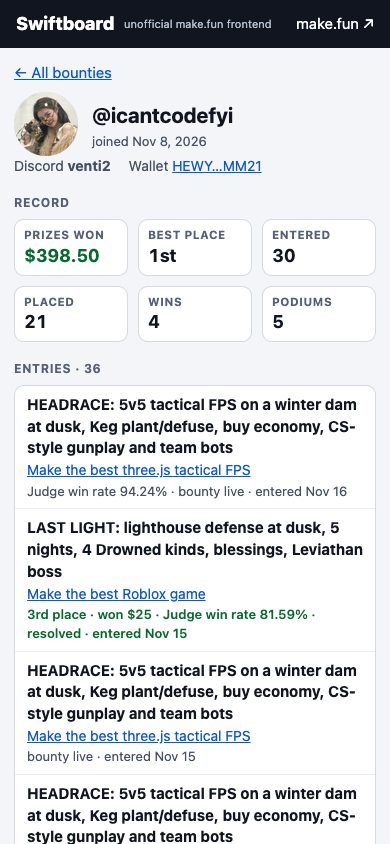
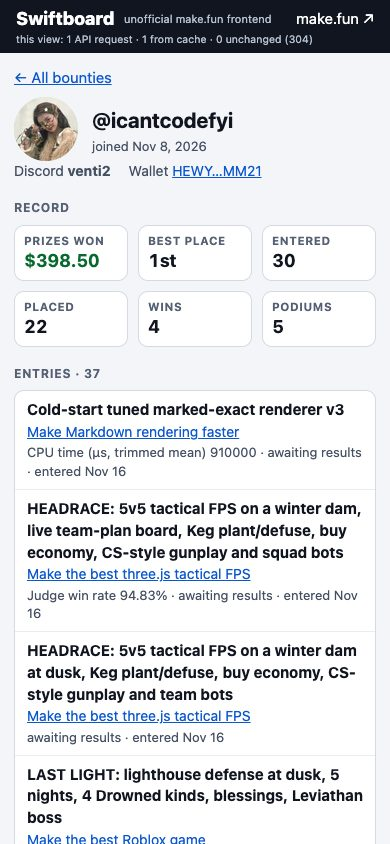
Top 5 on the bounty page, per-view cache counter, closing-soon marker at 6 hours
The bounty Overview shows the current top five from the leaderboard tab's own
cached request (one shared answer, aborted and revalidated like the rest).
The header counter now reads for the view on screen and starts again on each
change of address. The closing-soon marker applies under 6 hours.
Screenshots retaken on live data.

diff --git a/app/views.js b/app/views.js
@@ -238,11 +238,11 @@ function patchRow(el, b) {
   }
   const [title, pot, meta, caption] = el.children;
   const [left, entries, fee] = meta.children;
-  // Closing soon: under 24 hours left. Marked by a boxed "!" as well as by colour.
+  // Closing soon: under 6 hours left. Marked by a boxed "!" as well as by colour.
   const soon = closesSoon(b) ? 'soon' : '';
   if (left.className !== soon) {
     left.className = soon;
-    left.title = soon ? 'Closes within 24 hours' : '';
+    left.title = soon ? 'Closes within 6 hours' : '';
   }
   setText(title, b.title);
   setText(pot, usd(b.pot));
@@ -269,6 +269,7 @@ const STAT = (key) => `<div class="stat ${key}"><small data-f=${key}Label></smal
 const BOUNTY = `<div data-f=head></div>
 <p class=lede data-f=summary></p>
 <div class=stats>${['pot', 'fee', 'left', 'entries'].map(STAT).join('')}</div>
+<h2 class=toph data-f=topHead></h2><div data-f=top></div>
 <div class=cols><section><h2>Rewards</h2><table data-f=rewards></table></section><section><h2>Dates and status</h2><dl data-f=dates></dl></section></div>
 <h2>Description</h2><div class=md data-f=about></div>
 <details data-f=rulesBox><summary>Rules</summary><div class=md data-f=rules></div></details>`;
@@ -290,9 +291,11 @@ export function bountyView(slug = order[0] && order[0].slug) {
     root._f.rulesBox.open = false;
     $('view').scrollTop = 0;
     paintBounty(listing(slug) || { slug, title: slug, rewards: [], entries: 0 });
+    paintTopFive(slug);
   }
   if (selected !== slug) boardView(slug);
-  return getBounty(slug, (b) => root._slug === slug && paintBounty(b));
+  // Two answers make the page: the bounty's own, and its leaderboard for the Top 5 (the leaderboard tab's request).
+  return Promise.all([getBounty(slug, (b) => root._slug === slug && paintBounty(b)), topFive(slug)]);
 }
 
 function paintBounty(b) {
@@ -393,7 +396,11 @@ details{margin:14px 0 30px}summary{padding:8px 2px;font-weight:650;cursor:pointe
 .soon{padding:0 6px 0 2px;border:1px solid #c98a1b;border-radius:99px;background:#fdebc5;color:#5f3900}.meta b.soon{color:#5f3900}
 .soon:before{content:"!";display:inline-block;width:13px;margin-right:4px;border-radius:50%;background:#774800;color:#fff;font-size:10.5px;font-weight:800;line-height:13px;text-align:center;vertical-align:1px}
 .none{margin:14px 6px;color:#465064}
-@media(max-width:820px){#net{display:none}.back{display:inline-block}.stats{grid-template-columns:1fr 1fr}.cols{grid-template-columns:minmax(0,1fr)}h1{font-size:21px}.stat b{font-size:20px}th,td{padding:5px 8px}}`,
+.toph a{float:right;font-size:13px;font-weight:600;letter-spacing:0;text-transform:none}
+.top5{display:grid;grid-template-columns:repeat(5,minmax(0,1fr));gap:10px;margin:0;padding:0;list-style:none}.top5+p{min-height:63px;margin:0;color:#465064}
+.top5 li{display:grid;grid-template-columns:auto minmax(0,1fr);gap:0 7px;align-items:baseline;padding:7px 12px;background:#fff;border:1px solid #d5dae2;border-radius:10px}
+.top5 i{font-style:normal;font-size:13px;font-weight:700;color:#566074}.top5 a{font-weight:650;color:#10151f;text-decoration:none;white-space:nowrap;overflow:hidden;text-overflow:ellipsis}.top5 a:hover{text-decoration:underline}.top5 b{grid-column:2;font-size:17px}
+@media(max-width:820px){body{grid-template-rows:auto minmax(0,1fr)}header{flex-wrap:wrap;row-gap:0;padding-block:6px}#net{flex-basis:100%;overflow:hidden;text-overflow:ellipsis;font-size:10.5px}.top5{grid-template-columns:minmax(0,1fr);gap:4px}.top5 li{grid-template-columns:30px minmax(0,1fr) auto;padding:5px 12px}.top5 b{grid-column:auto}.toph a{font-size:12px}.back{display:inline-block}.stats{grid-template-columns:1fr 1fr}.cols{grid-template-columns:minmax(0,1fr)}h1{font-size:21px}.stat b{font-size:20px}th,td{padding:5px 8px}}`,
   }),
 );
 
@@ -401,7 +408,7 @@ details{margin:14px 0 30px}summary{padding:8px 2px;font-weight:650;cursor:pointe
 
 let findText = '';
 let category = '';
-const SOON_MS = 24 * 3600 * 1000;
+const SOON_MS = 6 * 3600 * 1000;
 
 /** The board's frame, made once: sort chips, filter box, category buttons, summary line, column headings, list. */
 const BOARD =
@@ -409,7 +416,7 @@ const BOARD =
   '<input type=search placeholder="Filter bounties by title or category" aria-label="Filter bounties by title or category">' +
   '<div class=cats role=group aria-label="Filter by category"></div>' +
   '<p class=tally><b></b> open · <b></b> in pots · <b></b> entries · <span title="The nearest deadline among the bounties shown">next ends in <b data-next></b></span></p>' +
-  '<div class=heads><span>Bounty · time left · entries · fee</span><span class=soon>under 24h</span><span>Pot</span></div></div>' +
+  '<div class=heads><span>Bounty · time left · entries · fee</span><span class=soon>under 6h</span><span>Pot</span></div></div>' +
   '<div></div>' +
   '<p class=none hidden>No bounty matches this filter. <button data-clear>Show all</button></p>';
 
@@ -444,4 +451,32 @@ function makeCategory(name) {
 function patchCategory(el, name) {
   const pressed = String(name === category);
   if (el.getAttribute('aria-pressed') !== pressed) el.setAttribute('aria-pressed', pressed);
+}
+
+// ---------------------------------------------------------------- a bounty's Top 5
+
+import { getLeaderboard } from './cached-api.js';
+
+/**
+ * The bounty's current top five, read through cachedGet from the very request its leaderboard tab makes, so the
+ * two share one cached answer: opening the tab afterwards costs no request, and coming back costs none either.
+ * It is aborted with the view; a bounty with no leaderboard to read shows the plain line, not an error.
+ */
+function topFive(slug) {
+  const mine = (board) => $('bounty')._slug === slug && paintTopFive(slug, board || { rows: [] });
+  return getLeaderboard(slug, '', mine).catch((err) => err.name === 'AbortError' || mine());
+}
+
+/** Rank, handle and the leaderboard's own score text for the first five ranked rows; patched only when changed. */
+function paintTopFive(slug, board) {
+  const f = $('bounty')._f;
+  const at = `#/bounty/${encodeURIComponent(slug)}/leaderboard`;
+  const ranked = board ? board.rows.filter((r) => r[0] != null) : [];
+  const cells = ranked.slice(0, 5).map(
+    ([rank, handle, , score, , , house]) =>
+      `<li><i>${ordinal(rank)}</i><a href="#/u/${encodeURIComponent(handle)}" title="@${esc(handle)}">@${esc(handle)}${house ? ' · house' : ''}</a><b class=num>${esc(score)}</b></li>`,
+  );
+  const all = ranked.length ? `All ${plural(ranked.length, 'ranked entry', 'ranked entries')}` : 'Full leaderboard';
+  patchHtml(f.topHead, `Top 5 now${ranked.length ? ' · ' + esc(board.column) : ''} <a href="${at}">${all} →</a>`);
+  patchHtml(f.top, cells.length ? `<ol class=top5>${cells.join('')}</ol>` : `<ol class=top5></ol><p>${board ? 'No ranked entries yet.' : 'Reading the leaderboard…'}</p>`);
 }

diff --git a/app/cached-api.js b/app/cached-api.js
@@ -13,6 +13,7 @@ export async function cachedGet(path, patch, slim, signal = stale.signal) {
   if (hit && sameMinute(hit.at)) {
     // Answered from the cache with no request: counted, and shown in the header beside the request count.
     requests.cached += 1;
+    requests.view.cached += 1;
     return hit.data;
   }
   try {
@@ -37,11 +38,13 @@ function revalidateEtag(path, hit, slim, signal) {
   const job = fetch(API + path, { signal: signal || undefined, cache: 'no-cache' })
     .then(async (res) => {
       requests.count += 1;
+      requests.view.count += 1;
       if (!res.ok) throw new Error(res.status === 404 ? 'make.fun has nothing at this address' : `make.fun answered ${res.status}`);
       const etag = res.headers.get('ETag');
       if (hit && etag && etag === hit.etag) {
         // Revalidated and unchanged: counted, and shown in the header.
         requests.unchanged += 1;
+        requests.view.unchanged += 1;
         return remember(path, hit, true);
       }
       return remember(path, { etag, data: slim(await res.json()) });
@@ -55,6 +58,8 @@ function revalidateEtag(path, hit, slim, signal) {
 export function abortStale() {
   stale.abort();
   stale = new AbortController();
+  // A new address is a new view: its counts start again. A revalidation of the same address keeps adding to them.
+  if (requests.view.of !== location.hash) requests.view = { of: location.hash, count: 0, cached: 0, unchanged: 0 };
 }
 
 export const getBoard = (patch) => cachedGet('/competitions?status=open&activity=times', patch, slimBoard, null);
@@ -177,3 +182,7 @@ function slimProfile(p) {
 // cache with no request, and revalidations that came back 304 with nothing new.
 requests.cached = 0;
 requests.unchanged = 0;
+
+// The same three counts for the view now on screen alone, shown in the header. cachedGet and revalidateEtag add
+// to them as they answer; abortStale starts them again when the address changes.
+requests.view = { of: null, count: 0, cached: 0, unchanged: 0 };

diff --git a/app/app.js b/app/app.js
@@ -49,8 +49,10 @@ async function route() {
   }
   if (mine !== turn) return;
   ticks = 0;
-  // Real counts kept by cached-api.js: network answers, answers served from the cache, and 304 revalidations.
-  setText($('net'), `${requests.count} API ${requests.count === 1 ? 'request' : 'requests'} this visit · ${requests.cached} from cache, no request · ${requests.unchanged} unchanged (304)`);
+  // Real counts kept by cached-api.js for the view on screen, started again on each change of address:
+  // network answers, answers served from memory with no request, and revalidations that came back unchanged.
+  const { count, cached, unchanged } = requests.view;
+  setText($('net'), `this view: ${count} API ${count === 1 ? 'request' : 'requests'} · ${cached} from cache · ${unchanged} unchanged (304)`);
   window.__shotReady = true;
 }
 
